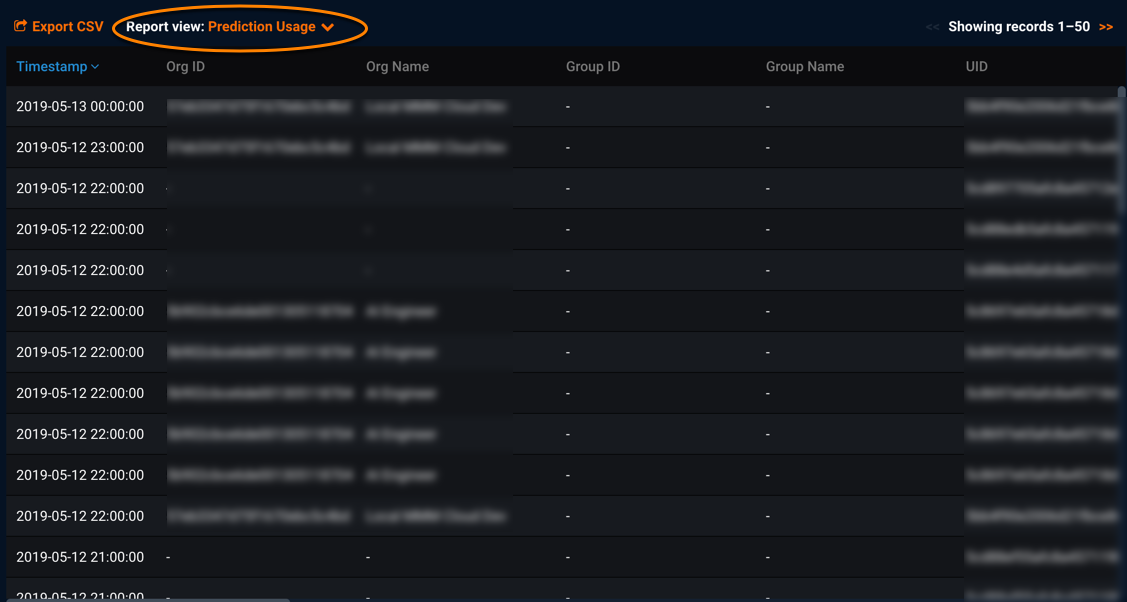
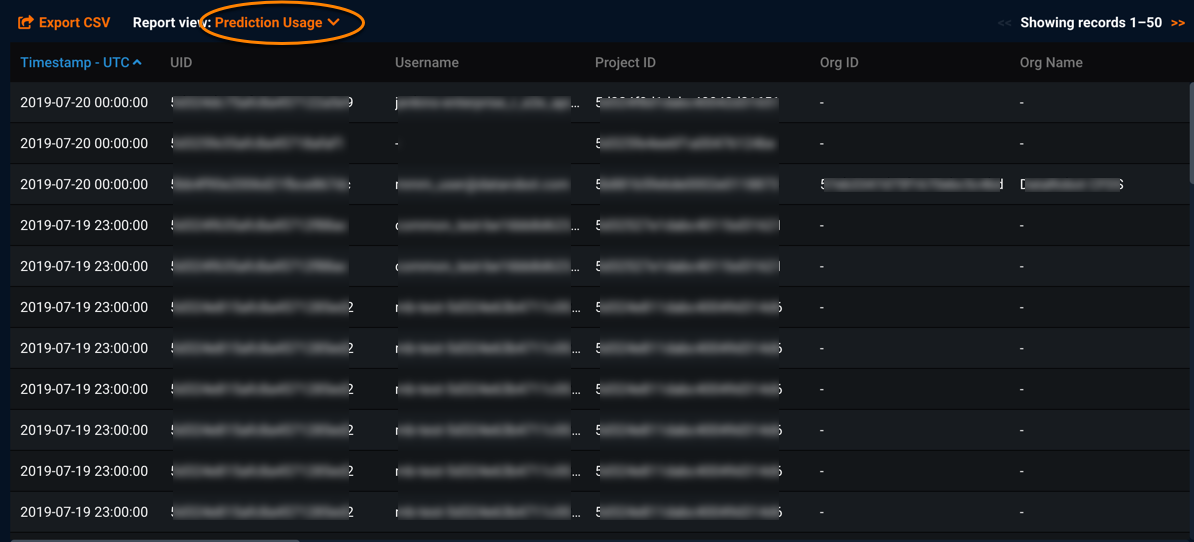
Linda/doc-1403-uam52 (#403)
* linda/doc-1386-usergroups52-pbmp-1360

* remove changes for UAM

* uam_firstchanges

* uam-notusergroups

* removed doc-1386 files

* pred-report-reorder

* bigger image

* better blur

* rephrased download messaging

diff --git a/administration/en/monitoring-user-activity.md b/administration/en/monitoring-user-activity.md
@@ -35,7 +35,7 @@ Component| Description of use
 
 ### Searching report preview
 
-Use values in the Search dialog to filter the data returned for the selected online report view. Specify the filter values and click **Search** to apply the filter(s); the User Activity Monitor preview updates to show all records related to the filters. Note that these search values apply to the online report preview only.
+Use values in the Search dialog to filter the data returned for the selected online report view. Specify the filter values and click **Search** to apply the filter(s); the User Activity Monitor preview updates to show all records related to the filters. Note that these search values apply to the online report preview only. Click **Reset** to view all available data without any search filters.
 
 ![](images/useractivitymonitor-2.png)
 
@@ -43,34 +43,34 @@ Use values in the Search dialog to filter the data returned for the selected onl
 
 Component | Description of use
 -------- | ----------------------
-(1) | You can filter by a User ID and/or Project ID as follows: You can filter App Usage activity and Prediction Usage activity reports using either, or both, of these filters; you can filter the Admin Usage activity report by User ID. (If needed, you can copy the UID or Project ID values from the report preview and paste in the related search field(s).)
+(1) | You can filter by a Username or User ID or and/or Project ID as follows: You can filter App Usage activity and Prediction Usage activity reports using either, or both, of these filters; you can filter the Admin Usage activity report by Username or User ID only. (If needed, you can copy the Username, UID, or Project ID values from the report preview and paste in the related search field(s).)
 (2) | If checked, <em>identifying information</em> about users, projects, datasets, organizations, and so forth are shown in the preview. If DataRobot Customer Support will be accessing this report, you may consider this information "sensitive" and choose to exclude (hide) it. The columns will show in the report without values. (See the description of each report to determine the identifying information for that report ( [Admin Usage](report-admin-usageactivity.md), [App Usage](report-app-usageactivity.md), [Prediction Usage](report-pred-usageactivity.md).)
-(3) | Use **Time Range** to limit the number of records shown in the preview. You can select one of the predefined time ranges, such as **Last month**, or you can specify a custom time range using the datetime picker. (See "Previewing the Prediction Usage activity report" for the restrictions when previewing the Prediction Usage activity report.) If not selected, this defaults to show one year of records.
-**Search** | Use to generate the online preview of the report using the selected search filters.
+(3) | Use **Time Range** to limit the number of records shown in the preview. You can select one of the predefined time ranges, such as **Last month**, or you can specify a custom time range using the date picker. (See "Previewing the Prediction Usage activity report" for the restrictions when previewing the Prediction Usage activity report.) If not selected, this defaults to show one year of records.
+**Search** or **Reset** | Use to generate the online preview of the report using the selected search filters, or to clear filters to view all available records.
 
 ![](images/useractivitymonitor-datetime.png)
 
-To specify a custom range, click the **Start Date** field, use the calendar and time controls to select the starting date and time for the records, and then click **OK**. Repeat these steps for the **End Date**.
+To specify a custom range, click the **Start Date (UTC)** field, use the calendar controls to select the starting date for the records. Repeat for the **End Date (UTC)** field. Click **Start** to apply the custom date range filter.
 
 <a name="preview-predreport"></a>
 ### Previewing the Prediction Usage activity report
 
- DataRobot can display (online report preview) up to 24 hours of data for the Prediction Usage activity report. When applying a time range search filter for the Prediction Usage activity report, select **Last day** or define a custom time range of 24 hours or less. Note that this applies only when previewing the Prediction Usage activity report online; when downloading Prediction Usage activity report data, you can select any of the **Time Range** values provided in the **Export reports as CSV** dialog.
+ DataRobot can display (online report preview) up to 24 hours of data for the Prediction Usage activity report. When applying a time range search filter for the Prediction Usage activity report, select **Last day** or **Custom range** (and select a specific day). Note that this applies only when previewing the Prediction Usage activity report online; when downloading Prediction Usage activity report data, you can select any of the **Time Range** values provided in the **Export reports as CSV** dialog.
 
 <a name="exportcsv"></a>
-## Saving and downloading user activity data
+## Downloading reports of activity data
 
-Use **Export CSV** to generate and download selected usage activity reports. When exporting reports, you will be prompted to filter records for report download. (The search fields for report preview do not also filter records for report download.)
+Use **Export CSV** to generate and download selected usage activity reports. When exporting reports, you are prompted to filter records to include in the download. (The search fields for report preview do not also filter records for report download.)
 
 ![](images/useractivitymonitor-exportcsv.png)
 
-The **Export reports as CSV** dialog prompts you to configure and download reports.
+The **Export reports as CSV** dialog prompts you to configure and download reports of user activity data.
 
 Component | Description
 ------ | -----------
 (1) | Use the checkbox to include or exclude identifying information in the downloaded report.
-(2) | Specify the time range of records you want to include in the report. The end time for each of these ranges is the current time. For example, **Last day** will create reports with data starting from 24 hours ago and ending at the current time. If not selected, this defaults to show one year of records.
+(2) | Specify the time range of records you want to include in the report. The end time for each of these ranges is the current day. For example, **Last day** will create reports with data starting from 24 hours ago and ending at the current time. The default selection downloads records generated over the past year.
 (3) | Select one or more reports to download.
-(4) | Click **Download CSV** to save the selected report(s) to your local machine. When the report(s) have  downloaded successfully, you will see the message "Report generation was successful".
+(4) | Click **Download CSV** to save the selected report(s) to your local machine. The length of time for the download to complete depends on the time range (amount of data) and number of reports included. When the report(s) have downloaded successfully, you see the message "Report generation was successful."
 
 Whether you select to include one or all reports in the export, DataRobot creates an archive file (ZIP file) and downloads that to your local machine. The file is named with a randomly-generated hash value and the current date (year-month-day). Within the ZIP file, you will find CSV files for the usage reports you selected for download. The filename for each of the CSV reports includes the DataRobot version number, current date, and type of data for the report.

diff --git a/administration/en/report-pred-usageactivity.md b/administration/en/report-pred-usageactivity.md
@@ -12,23 +12,24 @@ Both versions of the Prediction Usage activity report (online preview and downlo
 
 Report field | Description
 ------ | -----------
-**Timestamp** | Timestamp when the prediction event occurred
-**Org ID** | ID of the user's organization
-**Org Name** (\*) |  Name of the user's organization
-**Group ID** | ID of the user's group
-**Group Name** (\*) | Name of the user's group
+**Timestamp - UTC** | Timestamp when the prediction event occurred
 **UID** | ID for the user who initiated this event
 **Username** (\*) | Name for the user who initiated this event
+**Project ID** | ID of the project
+**Org ID** | ID of the user's organization
+**Org Name** (\*) | Name of the user's organization
+**Group ID** | ID of the user's group
+**Group Name** (\*) | Name of the user's group
 **User Role** | Role for the user who initiated the prediction event; values include OWNER, USER, OBSERVER
 **Model ID** | ID of the model
 **Model Type** | Type for the model; this also is the name of the model or blueprint
+**Blender Model Types** | Type of blender model, if applicable
 **Recommended Model** | Identifies if this is the recommended model for deployment (true) or not (false)
-**Project ID** | ID of the project
 **Project Type** | Type for the project; possible values include Binary Classification, Regression, Time Series - Regression, Multiclass Classification, etc.
 **Deployment ID** | ID of the deployment
 **Deployment Type** | Type of deployment; possible values include dedicated (deployment to a dedicated prediction server) or Secure Worker (in-app modeling workers used for predictions)
 **Dataset ID** | ID of the dataset
-**Prediction Method** | Method for making predictions for the related project; possible values are Secure Worker (predictions using modeling workers) or Dedicated Prediction (predictions using dedicated prediction server)
+**Prediction Method** | Method for making predictions for the related project; possible values are Modeling Worker (predictions using modeling workers) or Dedicated Prediction (predictions using dedicated prediction server)
 **Prediction Explanations** | Identifies if Prediction Explanations were computed for this project model (true) or not (false)
 **# of Requests** | Number of prediction requests the deployment has received (where a single request can contain multiple prediction requests); provides statistics for deployment service health
 **# Rows Scored** | Number of dataset rows scored (for predictions) for this deployment
